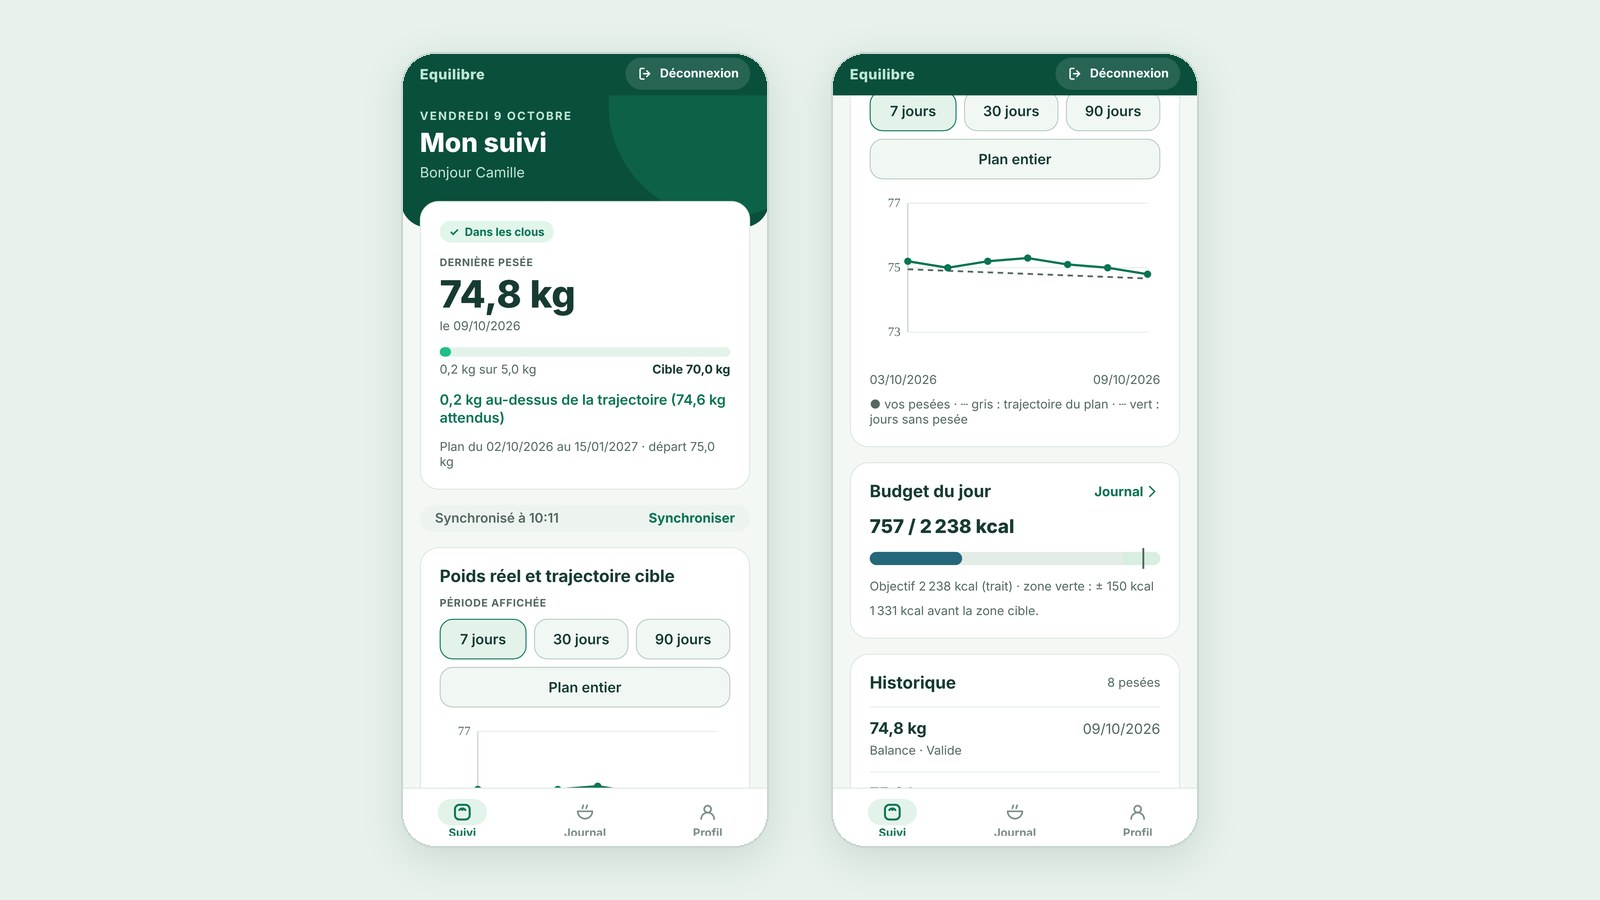
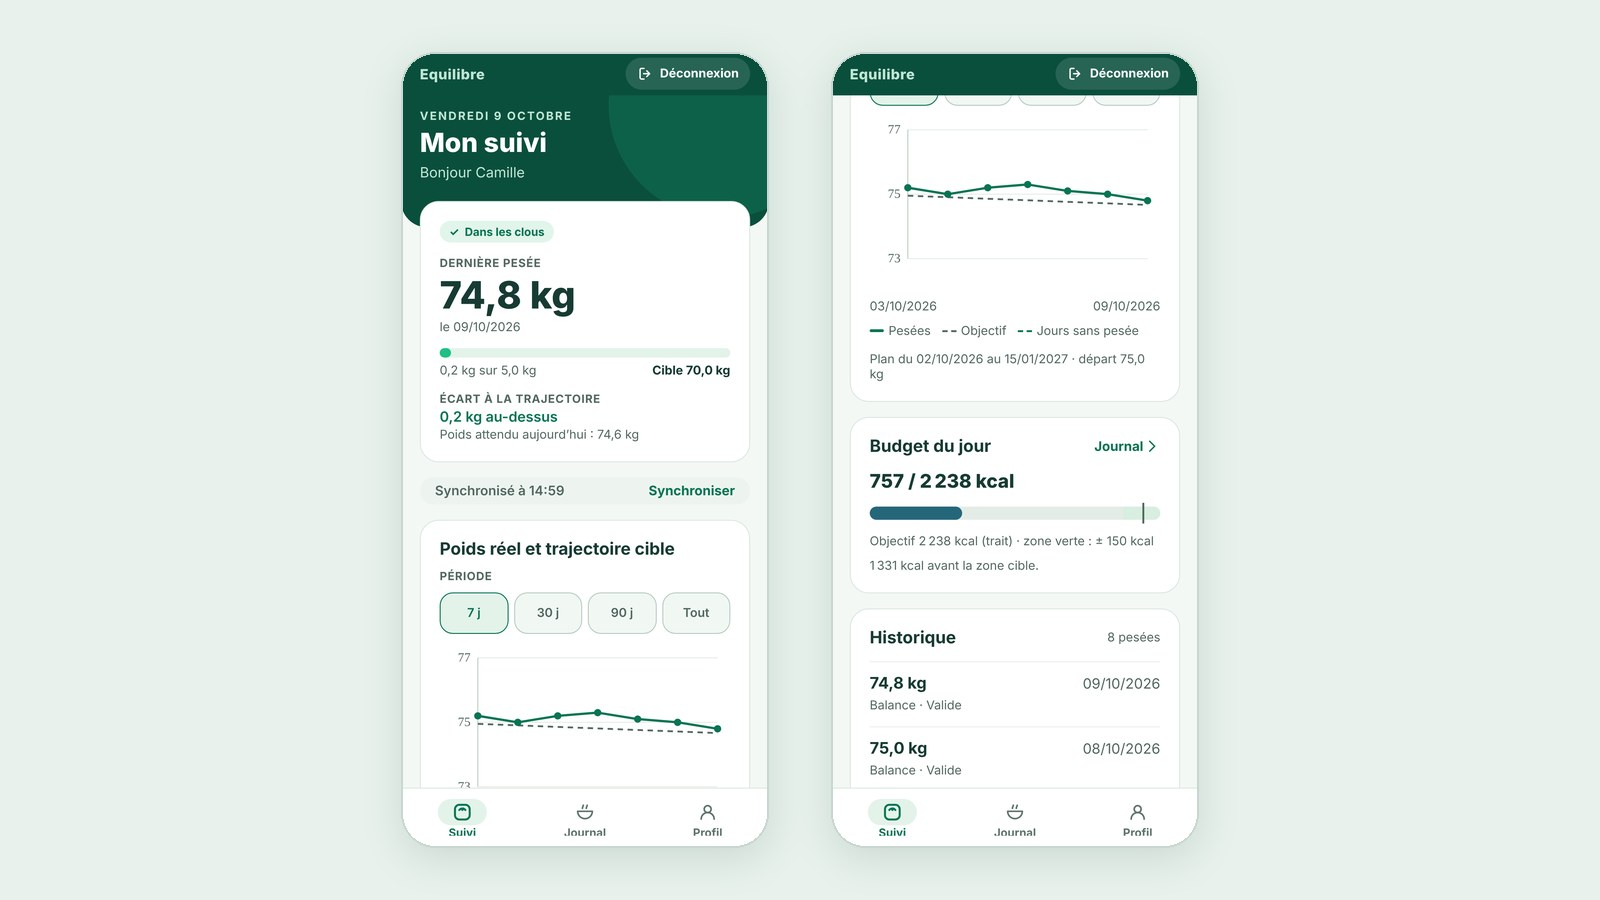
feat(portfolio): galerie Equilibre en montages complets et captures a jour (FR403-838)

diff --git a/components/ProjectModal.tsx b/components/ProjectModal.tsx
@@ -283,7 +283,7 @@ export default function ProjectModal({ project, onClose, relatedProject, onSelec
                         </div>
 
                         {/* COLONNE DROITE - Carrousel ou placeholder */}
-                        <div className="order-1 md:order-2 shrink-0 md:flex-1 flex flex-col h-[36rem] md:h-auto min-h-0 overflow-hidden">
+                        <div className="order-1 md:order-2 shrink-0 md:flex-1 flex flex-col h-[26rem] md:h-auto min-h-0 overflow-hidden">
                             {hasScreenshots && currentScreenshot ? (
                                 <>
                                     {/* Image */}
@@ -302,20 +302,17 @@ export default function ProjectModal({ project, onClose, relatedProject, onSelec
                                                         type="button"
                                                         onClick={() => setZoomed(true)}
                                                         aria-label={`${lang === 'fr' ? 'Agrandir' : 'Enlarge'} : ${lang === 'en' && currentScreenshot.titleEn ? currentScreenshot.titleEn : currentScreenshot.title}`}
-                                                        className="absolute inset-0 flex w-full cursor-zoom-in items-center justify-center focus-visible:outline-2 focus-visible:outline-offset-[-2px] focus-visible:outline-vermillon"
+                                                        className="absolute inset-0 w-full cursor-zoom-in focus-visible:outline-2 focus-visible:outline-offset-[-2px] focus-visible:outline-vermillon"
                                                     >
-                                                        <span className={currentScreenshot.portraitFocus === undefined ? "relative block h-full w-full" : "relative block h-full max-w-full aspect-[46/100] overflow-hidden rounded-[1.25rem] shadow-xl"}>
-                                                            <Image
-                                                                src={currentScreenshot.url}
-                                                                alt=""
-                                                                fill
-                                                                sizes={currentScreenshot.portraitFocus === undefined ? "(max-width: 767px) 100vw, 60vw" : "(max-width: 767px) 50vw, 360px"}
-                                                                className={currentScreenshot.portraitFocus === undefined ? "object-contain" : "object-cover scale-[1.1]"}
-                                                                style={currentScreenshot.portraitFocus === undefined ? undefined : { objectPosition: `${currentScreenshot.portraitFocus}% center` }}
-                                                                unoptimized={currentScreenshot.portraitFocus !== undefined}
-                                                                priority
-                                                            />
-                                                        </span>
+                                                        <Image
+                                                            src={currentScreenshot.url}
+                                                            alt=""
+                                                            fill
+                                                            sizes="(max-width: 767px) 100vw, 60vw"
+                                                            className="object-contain"
+                                                            unoptimized={project.slug === 'equilibre'}
+                                                            priority
+                                                        />
                                                         <span className="absolute right-3 top-3 flex items-center gap-1.5 rounded-full bg-washi/95 px-3 py-2 text-xs font-semibold text-ink shadow-md">
                                                             <ZoomIn className="h-4 w-4" aria-hidden="true" />
                                                             {lang === 'fr' ? 'Agrandir' : 'Enlarge'}
@@ -361,22 +358,27 @@ export default function ProjectModal({ project, onClose, relatedProject, onSelec
                                             {lang === 'en' && currentScreenshot.descriptionEn ? currentScreenshot.descriptionEn : currentScreenshot.description}
                                         </p>
 
-                                        {/* Navigation courte, identique au cadrage de l'image principale. */}
+                                        {/* Miniatures des montages affichés. */}
                                         {project.screenshots.length > 1 && (
                                             <div className="flex gap-2 overflow-x-auto pb-1">
                                                 {project.screenshots.map((screenshot, idx) => (
                                                     <button
                                                         key={idx}
                                                         onClick={() => setCurrentIndex(idx)}
-                                                        className={`shrink-0 rounded-full border px-3 py-2 text-xs font-semibold transition-colors ${
+                                                        className={`shrink-0 w-24 rounded-md p-1 text-left transition-all duration-300 ${
                                                             idx === currentIndex
-                                                                ? "border-vermillon bg-vermillon text-white"
-                                                                : "border-gold/30 text-ink hover:border-vermillon"
+                                                                ? "bg-vermillon/10 ring-2 ring-vermillon"
+                                                                : "ring-1 ring-gold/20 hover:ring-gold/50"
                                                         }`}
                                                         aria-label={`${t.projects.viewImage} ${idx + 1} : ${lang === 'en' && screenshot.titleEn ? screenshot.titleEn : screenshot.title}`}
                                                         aria-current={idx === currentIndex ? 'true' : undefined}
                                                     >
-                                                        {lang === 'en' ? (screenshot.shortTitleEn ?? screenshot.titleEn ?? screenshot.title) : (screenshot.shortTitle ?? screenshot.title)}
+                                                        <span className="relative block h-12 w-full overflow-hidden rounded-sm">
+                                                            <Image src={screenshot.url} alt="" fill sizes="96px" className="object-contain" />
+                                                        </span>
+                                                        <span className="mt-1 block truncate text-[11px] font-semibold text-ink">
+                                                            {lang === 'en' ? (screenshot.shortTitleEn ?? screenshot.titleEn ?? screenshot.title) : (screenshot.shortTitle ?? screenshot.title)}
+                                                        </span>
                                                     </button>
                                                 ))}
                                             </div>
@@ -427,7 +429,7 @@ export default function ProjectModal({ project, onClose, relatedProject, onSelec
                         fill
                         sizes="100vw"
                         className="object-contain"
-                        unoptimized={currentScreenshot.portraitFocus !== undefined}
+                        unoptimized={project.slug === 'equilibre'}
                     />
                 </div>
                 <a href={currentScreenshot.url} target="_blank" rel="noopener noreferrer" className="shrink-0 self-start text-sm underline underline-offset-4">

diff --git a/lib/projects.ts b/lib/projects.ts
@@ -46,11 +46,11 @@ export const projects: Project[] = [
             apk: 'https://equilibre.164-132-246-49.sslip.io/telechargements/equilibre.apk',
         },
         screenshots: [
-            { url: '/images/equilibre-suivi-poids.jpg', title: 'Suivi du poids', shortTitle: 'Poids', description: 'La dernière pesée, la cible et l’écart à la trajectoire sont visibles d’un coup d’œil.', titleEn: 'Weight tracking', shortTitleEn: 'Weight', descriptionEn: 'See the latest weigh-in, target and gap to the planned trajectory at a glance.', portraitFocus: 32 },
-            { url: '/images/equilibre-coach.jpg', title: 'Suivi coach', shortTitle: 'Coach', description: 'Les utilisateurs sont classés par priorité, avec la raison et l’action proposée.', titleEn: 'Coach follow-up', shortTitleEn: 'Coach', descriptionEn: 'Users are ranked by priority, with the reason and a suggested action.', portraitFocus: 14 },
-            { url: '/images/equilibre-journal.jpg', title: 'Journal alimentaire', shortTitle: 'Journal', description: 'Calories et nutriments du jour, aliments par repas et suivi utilisable hors ligne.', titleEn: 'Food diary', shortTitleEn: 'Diary', descriptionEn: 'Daily calories and nutrients, foods by meal and offline tracking.', portraitFocus: 32 },
-            { url: '/images/equilibre-ajout.jpg', title: 'Ajout d’un aliment', shortTitle: 'Ajouter', description: 'Recherche, favoris et portions usuelles accélèrent l’ajout au journal.', titleEn: 'Adding a food', shortTitleEn: 'Add food', descriptionEn: 'Search, favourites and usual portions make diary entries faster.', portraitFocus: 32 },
-            { url: '/images/equilibre-connexion.jpg', title: 'Connexion et profil', shortTitle: 'Profil', description: 'Inscription avec code coach et profil personnel.', titleEn: 'Login and profile', shortTitleEn: 'Profile', descriptionEn: 'Sign up with a coach code and view your personal profile.', portraitFocus: 70 },
+            { url: '/images/equilibre-suivi-poids.jpg', title: 'Suivi du poids', shortTitle: 'Poids', description: 'La dernière pesée, la cible et l’écart à la trajectoire sont visibles d’un coup d’œil.', titleEn: 'Weight tracking', shortTitleEn: 'Weight', descriptionEn: 'See the latest weigh-in, target and gap to the planned trajectory at a glance.' },
+            { url: '/images/equilibre-coach.jpg', title: 'Suivi coach', shortTitle: 'Coach', description: 'Les utilisateurs sont classés par priorité, avec la raison et l’action proposée.', titleEn: 'Coach follow-up', shortTitleEn: 'Coach', descriptionEn: 'Users are ranked by priority, with the reason and a suggested action.' },
+            { url: '/images/equilibre-journal.jpg', title: 'Journal alimentaire', shortTitle: 'Journal', description: 'Calories et nutriments du jour, aliments par repas et suivi utilisable hors ligne.', titleEn: 'Food diary', shortTitleEn: 'Diary', descriptionEn: 'Daily calories and nutrients, foods by meal and offline tracking.' },
+            { url: '/images/equilibre-ajout.jpg', title: 'Ajout d’un aliment', shortTitle: 'Ajouter', description: 'Recherche, favoris et portions usuelles accélèrent l’ajout au journal.', titleEn: 'Adding a food', shortTitleEn: 'Add food', descriptionEn: 'Search, favourites and usual portions make diary entries faster.' },
+            { url: '/images/equilibre-connexion.jpg', title: 'Connexion et profil', shortTitle: 'Profil', description: 'Inscription avec code coach et profil personnel.', titleEn: 'Login and profile', shortTitleEn: 'Profile', descriptionEn: 'Sign up with a coach code and view your personal profile.' },
         ],
     },
     {

diff --git a/lib/types.ts b/lib/types.ts
@@ -8,8 +8,6 @@ export interface Screenshot {
     descriptionEn?: string;
     shortTitle?: string;
     shortTitleEn?: string;
-    /** Horizontal focus (0–100) when a landscape montage is shown as one portrait screen. */
-    portraitFocus?: number;
 }
 
 export interface RawProjectLinks {
